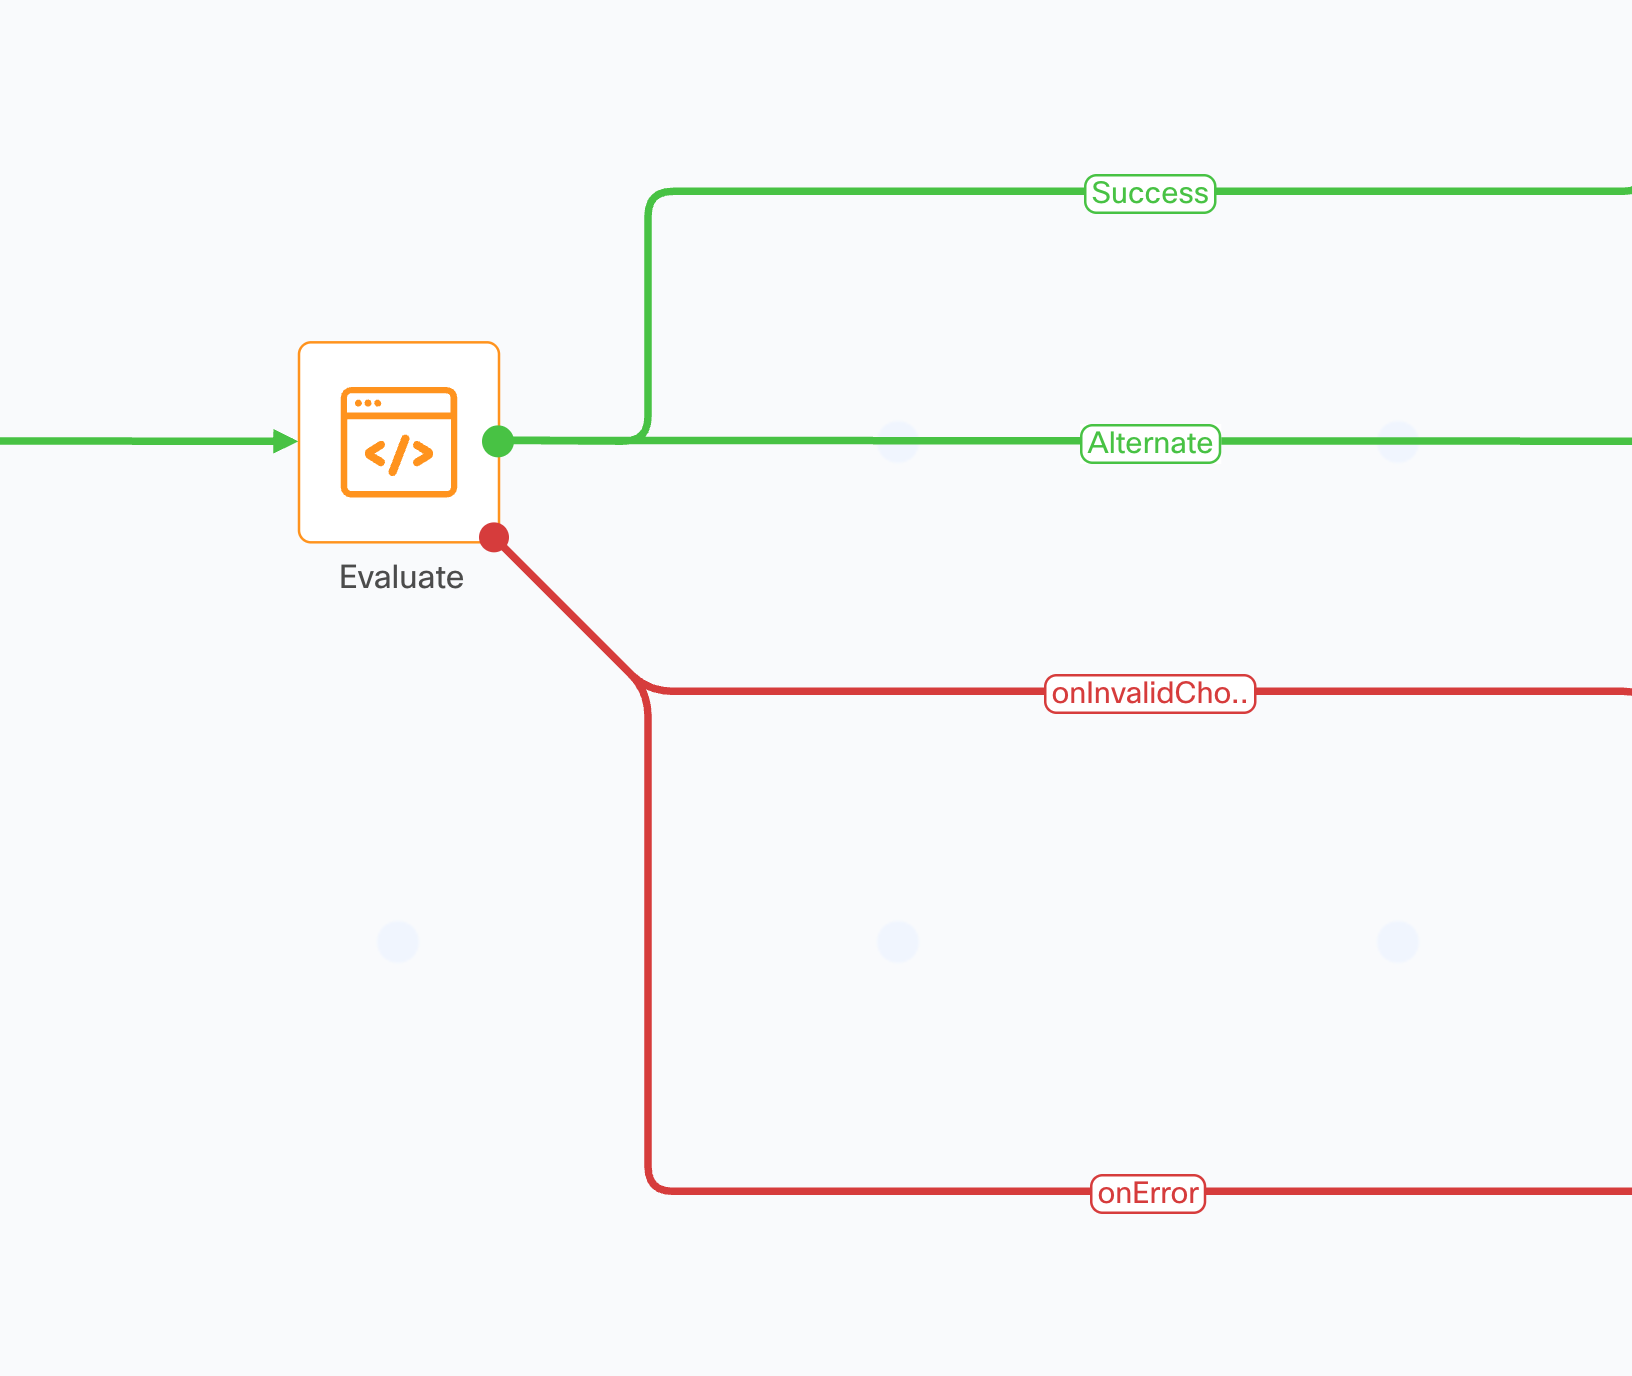
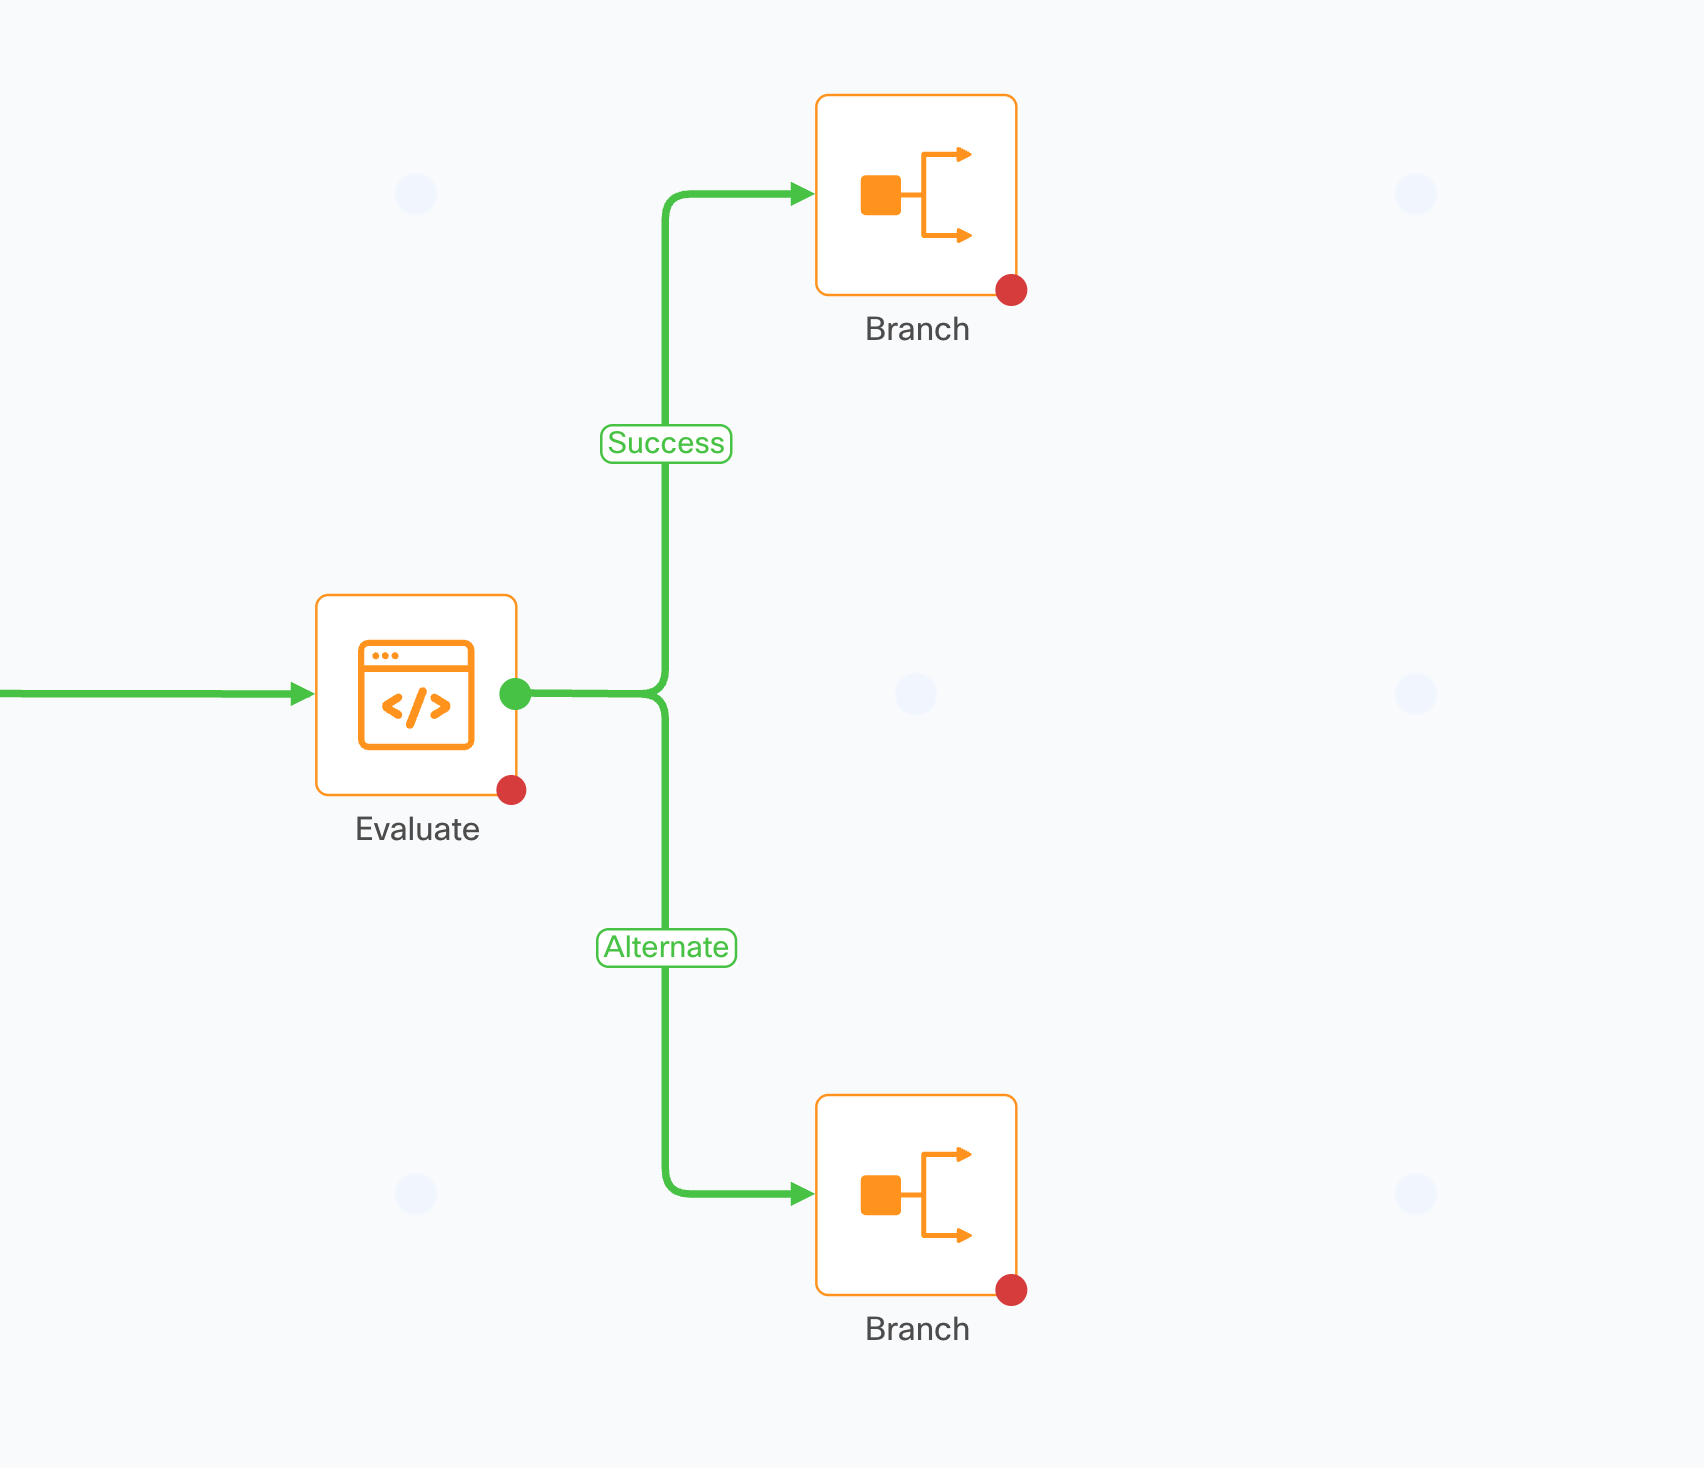
changed the outcomes branch info

diff --git a/_pages/Evaluate.md b/_pages/Evaluate.md
@@ -32,14 +32,20 @@ In my case, if I test the bare bones script, I can see that the output is `0` an
 
 ## Bare Bones Outcomes
 
-As you can see in this sample flow, the green line represents the name of the branch you created, and then there's two addition error handling outcomes:
+As you can see in this sample flow, the green line represents the name of the branch you created, and then there's two addition error handling outcomes (what they connect to, is not important right now; we'll get to that later):
 
 - `onInvalidChoice` is for when there is no error in your code, but the output the script gave, did not match any of your branches.
 - `onError` is for when your code threw an error and therefore failed to finish executing
 
 <img style="border: 1px solid grey;" src="/assets/images/Evaluate/bare-bones-outcomes.png" height="300" />
 
-**TIP**: You cannot connect more than one successful outcome branches to the same node. See the below screenshot for how I handle a second successful outcome branch. The top route for "Success" goes to one node, while the second route for "Alternate" goes to another node; they both cannot go to the same node.
+### Branching
+
+The Evaluate node has a built in branching mechanism, such that you do not need to connect the success outputs of the Evaluate node to the input of a Branch node.
+
+In the following screenshot, I have created an additional branch called "Alternate," and I am connecting each success branch to its own path for further processing.
+
+**Note**: You cannot connect two success branches to the same next node, they must connect to unique nodes.
 
 <img style="border: 1px solid grey;" src="/assets/images/Evaluate/bare-bones-second-outcome-1.png" height="300" />
 
